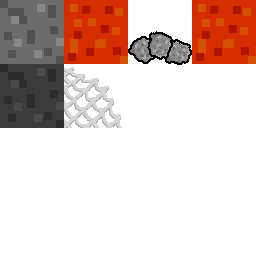
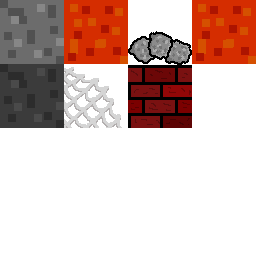
Made troll "No" button & added brick tile

Changed region(s): [[0.5, 0.25, 0.75, 0.5]]

diff --git a/src/Renderer.cpp b/src/Renderer.cpp
@@ -132,6 +132,7 @@ bool Renderer::renderUI(sf::RenderWindow& target, Tunnel& tunnel, Player& player
 		if (pos.x > rect.left && pos.x < rect.left + rect.width &&
 			pos.y > rect.top && pos.y < rect.top + rect.height) {
 			diedText5.setColor(sf::Color(0, 255, 0, 255));
+			diedText5.setString("YES");
 		} else {
 			diedText5.setColor(sf::Color(0, 255, 255, 255));
 		}
